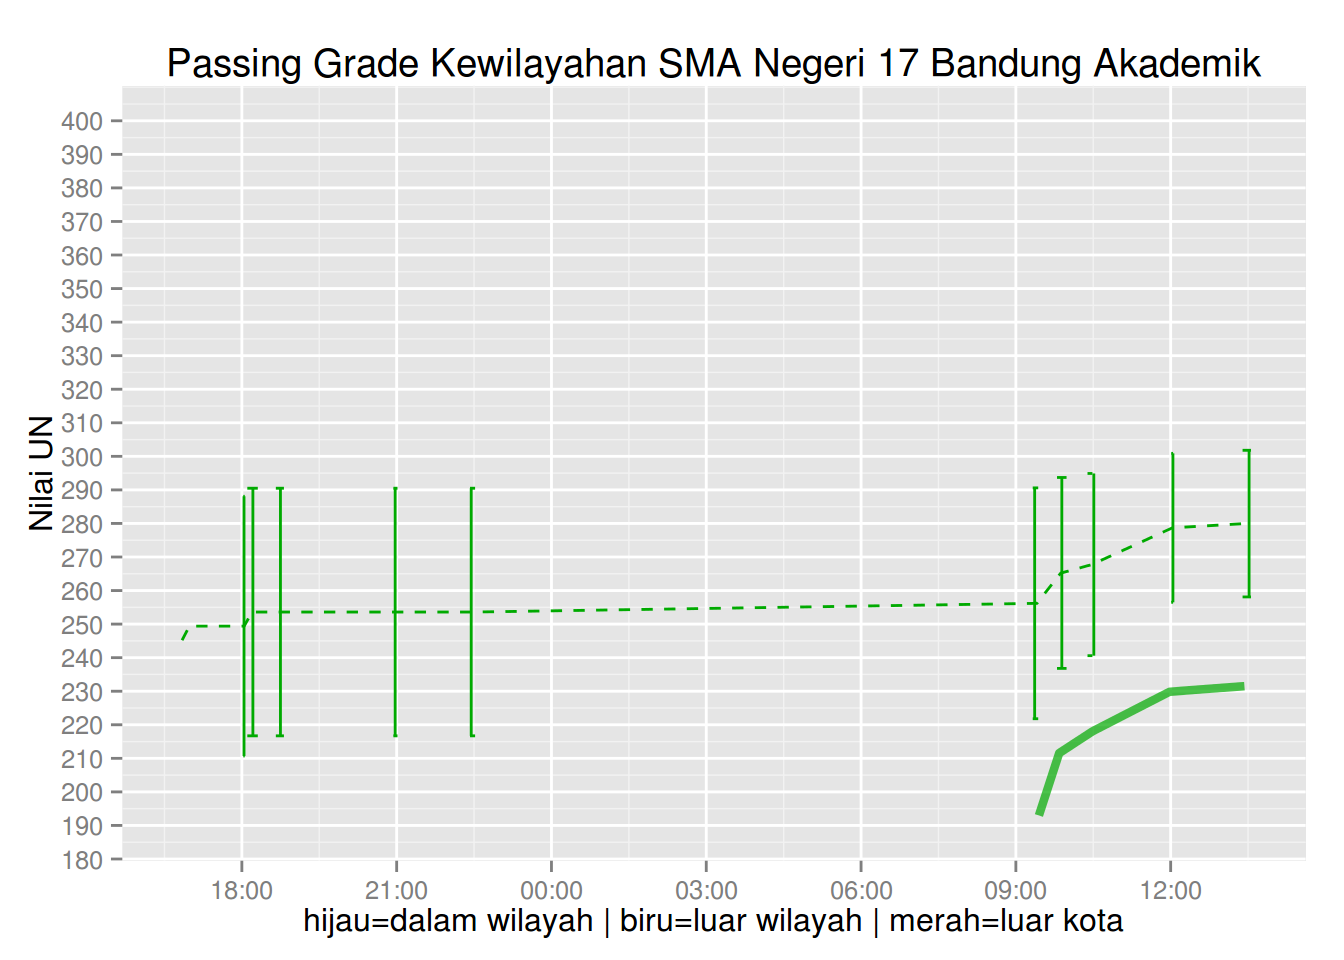
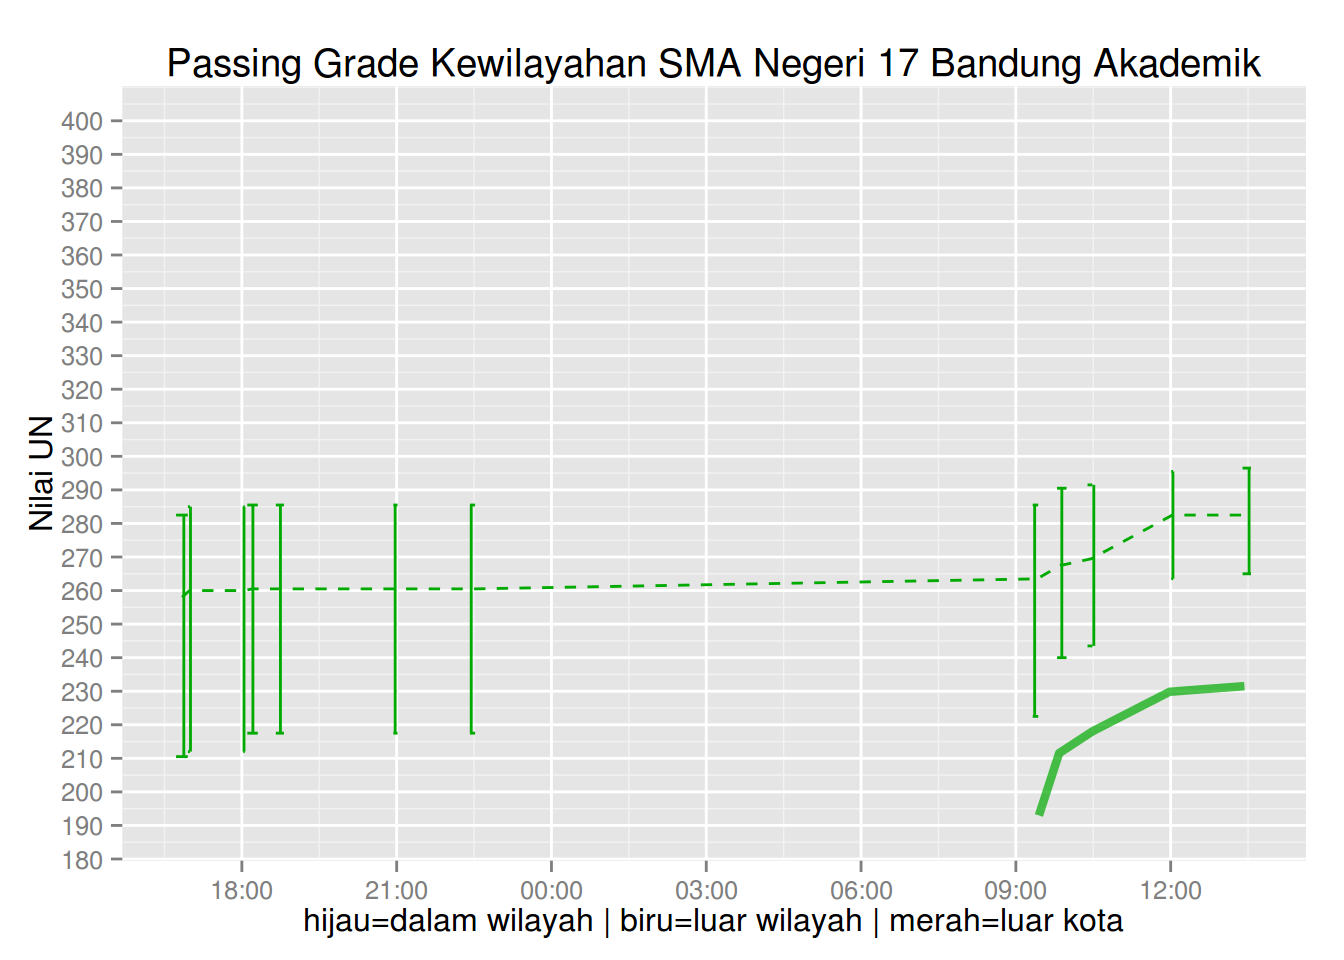
using median and Q1, Q3

diff --git a/filtered-ppdb-sma-kotabandung-2015.html b/filtered-ppdb-sma-kotabandung-2015.html
@@ -118,18 +118,18 @@ plot_pg &lt;- function(option_id, name) {
         round(filteredforeignerminscoretotal1::numeric, 1) pg_lk,
         round(filteredforeignerdetailminscoretotal1::numeric, 1) pg_lw,
         round(filteredinsiderminscoretotal1::numeric, 1) pg_dw,
-        round(filteredforeignermeanscoretotal1::numeric, 1) mean_lk,
-        round(filteredforeignerdetailmeanscoretotal1::numeric, 1) mean_lw,
-        round(filteredinsidermeanscoretotal1::numeric, 1) mean_dw,
+        round(filteredforeignerq2scoretotal1::numeric, 1) median_lk,
+        round(filteredforeignerdetailq2scoretotal1::numeric, 1) median_lw,
+        round(filteredinsiderq2scoretotal1::numeric, 1) median_dw,
         round(filteredforeignerstddevscoretotal1::numeric, 1) stddev_lk,
         round(filteredforeignerdetailstddevscoretotal1::numeric, 1) stddev_lw,
         round(filteredinsiderstddevscoretotal1::numeric, 1) stddev_dw,
-        round(filteredforeignerlowscoretotal1::numeric, 1) low_lk,
-        round(filteredforeignerdetaillowscoretotal1::numeric, 1) low_lw,
-        round(filteredinsiderlowscoretotal1::numeric, 1) low_dw,
-        round(filteredforeignerhighscoretotal1::numeric, 1) high_lk,
-        round(filteredforeignerdetailhighscoretotal1::numeric, 1) high_lw,
-        round(filteredinsiderhighscoretotal1::numeric, 1) high_dw,
+        round(filteredforeignerq1scoretotal1::numeric, 1) low_lk,
+        round(filteredforeignerdetailq1scoretotal1::numeric, 1) low_lw,
+        round(filteredinsiderq1scoretotal1::numeric, 1) low_dw,
+        round(filteredforeignerq3scoretotal1::numeric, 1) high_lk,
+        round(filteredforeignerdetailq3scoretotal1::numeric, 1) high_lw,
+        round(filteredinsiderq3scoretotal1::numeric, 1) high_dw,
         round(filteredforeignermaxscoretotal1::numeric, 1) max_lk,
         round(filteredforeignerdetailmaxscoretotal1::numeric, 1) max_lw,
         round(filteredinsidermaxscoretotal1::numeric, 1) max_dw
@@ -145,15 +145,15 @@ plot_pg &lt;- function(option_id, name) {
     geom_errorbar(position=position_jitter(height=0), color=&#39;#00aa00&#39;,
                  aes(ymin=low_dw, ymax=high_dw)) +
     geom_line(aes(y=pg_dw), color=&#39;#00aa00&#39;, size=1.5, alpha=0.7, position=position_jitter(height=1)) +
-    geom_line(aes(y=mean_dw), color=&#39;#00aa00&#39;, linetype=&#39;dashed&#39;) +
+    geom_line(aes(y=median_dw), color=&#39;#00aa00&#39;, linetype=&#39;dashed&#39;) +
     geom_errorbar(position=position_jitter(height=0), color=&#39;#1111ee&#39;,
                  aes(ymin=low_lw, ymax=high_lw)) +
     geom_line(aes(y=pg_lw), color=&#39;#1111ee&#39;, size=1.5, alpha=0.4, position=position_jitter(height=1)) +
-    geom_line(aes(y=mean_lw), color=&#39;#1111ee&#39;, linetype=&#39;dashed&#39;) +
+    geom_line(aes(y=median_lw), color=&#39;#1111ee&#39;, linetype=&#39;dashed&#39;) +
     geom_errorbar(position=position_jitter(height=0), color=&#39;red&#39;,
                  aes(ymin=low_lk, ymax=high_lk)) +
     geom_line(aes(y=pg_lk), color=&#39;red&#39;, size=1.5, alpha=0.4, position=position_jitter(height=1)) +
-    geom_line(aes(y=mean_lk), color=&#39;red&#39;, linetype=&#39;dashed&#39;) +
+    geom_line(aes(y=median_lk), color=&#39;red&#39;, linetype=&#39;dashed&#39;) +
     ggtitle(paste(&#39;Passing Grade Kewilayahan&#39;, name))
   return(plot)
 }
